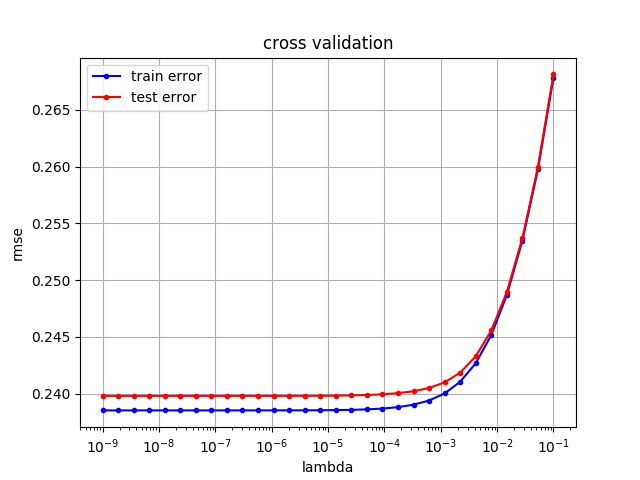
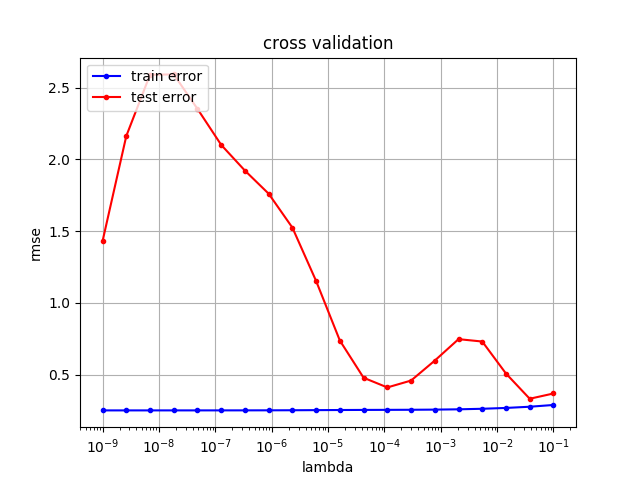
83% working

diff --git a/project1/utils/preprocessing.py b/project1/utils/preprocessing.py
@@ -59,103 +59,114 @@ def nan_to_mean(x, testx):
     return x, testx
 
 def adjust_features(x, testx):
-    square_mass = np.sqrt(x[:, DER_mass_MMC])
-    # square_mass_t = np.sqrt(x[:, DER_mass_transverse_met_lep])
-    px_tau = x[:, pri_tau_pt] * np.sin(x[:, pri_tau_phi])
-    py_tau = x[:, pri_tau_pt] * np.cos(x[:, pri_tau_phi])
-    pz_tau = x[:, pri_tau_pt] * np.sinh(x[:, pri_tau_eta])
-    mod_tau = x[:, pri_tau_pt] * np.cosh(x[:, pri_tau_eta])
-    # TRAIN - LEPT
-    px_lep = x[:, pri_lep_pt] * np.sin(x[:, pri_lep_phi])
-    py_lep = x[:, pri_lep_pt] * np.cos(x[:, pri_lep_phi])
-    pz_lep = x[:, pri_lep_pt] * np.sinh(x[:, pri_lep_eta])
-    mod_lep = x[:, pri_lep_pt] * np.cosh(x[:, pri_lep_eta])
-    # TEST - TAU
-    tsquare_mass = np.sqrt(testx[:, DER_mass_MMC])
-    # tsquare_mass_t = np.sqrt(testx[:, DER_mass_transverse_met_lep])
-    px_taut = testx[:, pri_tau_pt] * np.sin(testx[:, pri_tau_phi])
-    py_taut = testx[:, pri_tau_pt] * np.cos(testx[:, pri_tau_phi])
-    pz_taut = testx[:, pri_tau_pt] * np.sinh(testx[:, pri_tau_eta])
-    mod_taut = testx[:, pri_tau_pt] * np.cosh(testx[:, pri_tau_eta])
-    # TEST - LEPT
-    px_lept = testx[:, pri_lep_pt] * np.sin(testx[:, pri_lep_phi])
-    py_lept = testx[:, pri_lep_pt] * np.cos(testx[:, pri_lep_phi])
-    pz_lept = testx[:, pri_lep_pt] * np.sinh(testx[:, pri_lep_eta])
-    mod_lept = testx[:, pri_lep_pt] * np.cosh(testx[:, pri_lep_eta])
-
-    inv_log_cols = [0, 2, 5, 7, 9, 10, 13, 16, 19, 21, 23, 26]
     # Create inverse log values of features which are positive in value.
-    x_train_inv_log_cols = np.log(1 / (1 + x[:, inv_log_cols]))
-    x = np.hstack((x, x_train_inv_log_cols))
-    x_test_inv_log_cols = np.log(1 / (1 + testx[:, inv_log_cols]))
-    testx = np.hstack((testx, x_test_inv_log_cols))
+    for jet in range(len(x)):
+        if jet in (0,1,2,3):
+            if jet == 0:
+                x_delete_index = [3, 4, 5, 11, 22, 23, 24, 25, 26, 27, 28]
+                inv_log_cols = [1, 6, 8, 9, 12, 15, 18, 20]
+            if jet == 1:
+                x_delete_index = [4, 5, 6, 12, 23, 24, 25, 26, 27, 28, 29]
+                inv_log_cols = [0, 2, 7, 9, 10, 13, 16, 19, 21]
+            if jet == 2:
+                x_delete_index = [3, 4, 5, 11, 25, 26, 27]
+                inv_log_cols = [1, 6, 8, 9, 12, 15, 18, 20]
+            if jet == 3:
+                x_delete_index = [4, 5, 6, 12, 26, 27, 28]
+                inv_log_cols = [0, 2, 7, 9, 10, 13, 16, 19, 21]
+        elif jet in (4,5,6,7):
+            if jet in (4,6):
+                inv_log_cols = [1, 4, 6, 8, 9, 12, 15, 18, 20, 22, 25]
+            elif jet in (5,7):
+                inv_log_cols = [0, 2, 5, 7, 9, 10, 13, 16, 19, 21, 23, 26]
+            x_delete_index = []
 
-    train_features = [px_tau,py_tau,pz_tau,
-                      px_lep,py_lep,pz_lep, square_mass]
-    test_features = [px_taut, py_taut,pz_taut,
-                      px_lept,py_lept,pz_lept, tsquare_mass]
-    for feat in train_features:
-        x = np.column_stack((x, feat))
-    for feat in test_features:
-        testx = np.column_stack((testx, feat))
+        x_train_inv_log_cols = np.log(1 / (1 + x[jet][:, inv_log_cols]))
+        x[jet] = np.hstack((x[jet], x_train_inv_log_cols))
+        x_test_inv_log_cols = np.log(1 / (1 + testx[jet][:, inv_log_cols]))
+        testx[jet] = np.hstack((testx[jet], x_test_inv_log_cols))
+
+        x[jet] = remove_features(x[jet], x_delete_index)
+        testx[jet] = remove_features(testx[jet], x_delete_index)
+
+
+        # Preprocessing dataset
+        # x[jet], testx[jet] = nan_to_mean(x[jet], testx[jet])
+        # offset = 0 if jet % 2 == 0 else 1
+        # # TRAIN - TAU
+        # px_tau = x[jet][:, pri_tau_pt-offset] * np.sin(x[jet][:, pri_tau_phi-offset])
+        # py_tau = x[jet][:, pri_tau_pt-offset] * np.cos(x[jet][:, pri_tau_phi-offset])
+        # pz_tau = x[jet][:, pri_tau_pt-offset] * np.sinh(x[jet][:, pri_tau_eta-offset])
+        # # TRAIN - LEPT
+        # px_lep = x[jet][:, pri_lep_pt-offset] * np.sin(x[jet][:, pri_lep_phi-offset])
+        # py_lep = x[jet][:, pri_lep_pt-offset] * np.cos(x[jet][:, pri_lep_phi-offset])
+        # pz_lep = x[jet][:, pri_lep_pt-offset] * np.sinh(x[jet][:, pri_lep_eta-offset])
+        # # TEST - TAU
+        # px_taut = testx[jet][:, pri_tau_pt-offset] * np.sin(testx[jet][:, pri_tau_phi-offset])
+        # py_taut = testx[jet][:, pri_tau_pt-offset] * np.cos(testx[jet][:, pri_tau_phi-offset])
+        # pz_taut = testx[jet][:, pri_tau_pt-offset] * np.sinh(testx[jet][:, pri_tau_eta-offset])
+        # # TEST - LEPT
+        # px_lept = testx[jet][:, pri_lep_pt-offset] * np.sin(testx[jet][:, pri_lep_phi-offset])
+        # py_lept = testx[jet][:, pri_lep_pt-offset] * np.cos(testx[jet][:, pri_lep_phi-offset])
+        # pz_lept = testx[jet][:, pri_lep_pt-offset] * np.sinh(testx[jet][:, pri_lep_eta-offset])
+        #
+        # train_features = [px_tau,py_tau,pz_tau,
+        #                   px_lep,py_lep,pz_lep]
+        # test_features = [px_taut, py_taut,pz_taut,
+        #                   px_lept,py_lept,pz_lept]
+        # for feat in train_features:
+        #     x[jet] = np.column_stack((x[jet], feat))
+        # for feat in test_features:
+        #     testx[jet] = np.column_stack((testx[jet], feat))
+
     return x, testx
 
 def split_jets(train_x, train_y, test_x, test_y, idstest):
     jet_number = 22
+    jets = 4
+    x_jets_train = []
+    x_jets_test = []
+    y_jets_train = []
+    ids = []
+    for jet in range(jets):
+        x_jets_train.append(train_x[train_x[:, jet_number] == jet])
+        x_jets_test.append(test_x[test_x[:, jet_number] == jet])
+        ids_train = np.where([train_x[:, jet_number] == jet])[1]
+        y_jets_train.append(train_y[ids_train])
+        ids_test = np.where([test_x[:, jet_number] == jet])[1]
+        ids.append(idstest[ids_test])
 
-    x_jets_0_train = train_x[train_x[:, jet_number] == 0]
-    x_jets_1_train = train_x[train_x[:, jet_number] == 1]
-    x_jets_2_train = train_x[train_x[:, jet_number] == 2]
-    x_jets_3_train = train_x[train_x[:, jet_number] == 3]
 
-    x_jets_0_test = test_x[test_x[:, jet_number] == 0]
-    x_jets_1_test = test_x[test_x[:, jet_number] == 1]
-    x_jets_2_test = test_x[test_x[:, jet_number] == 2]
-    x_jets_3_test = test_x[test_x[:, jet_number] == 3]
+    mass_x_jets_train = []
+    mass_y_jets_train = []
+    mass_x_jets_test = []
+    mass_ids_jets_test = []
 
-    indices_x_0_train = np.where([train_x[:, jet_number] == 0])[1]
-    indices_x_1_train = np.where([train_x[:, jet_number] == 1])[1]
-    indices_x_2_train = np.where([train_x[:, jet_number] == 2])[1]
-    indices_x_3_train = np.where([train_x[:, jet_number] == 3])[1]
+    # FOR EACH JET
+    # FIRST WITHOUT MASS
+    # SECOND WITH MASS
 
-    y_jets_0_train = train_y[indices_x_0_train]
-    y_jets_1_train = train_y[indices_x_1_train]
-    y_jets_2_train = train_y[indices_x_2_train]
-    y_jets_3_train = train_y[indices_x_3_train]
+    for jet in range(jets):
+        indices_jet_nan_train = np.where([x_jets_train[jet][:, 0] == (-999)])[1]
+        indices_jet_Nnan_train = np.where([x_jets_train[jet][:, 0] != (-999)])[1]
+        indices_jet_nan_test = np.where([x_jets_test[jet][:, 0] == (-999)])[1]
+        indices_jet_Nnan_test = np.where([x_jets_test[jet][:, 0] != (-999)])[1]
 
-    indices_x_0_test = np.where([test_x[:, jet_number] == 0])[1]
-    indices_x_1_test = np.where([test_x[:, jet_number] == 1])[1]
-    indices_x_2_test = np.where([test_x[:, jet_number] == 2])[1]
-    indices_x_3_test = np.where([test_x[:, jet_number] == 3])[1]
+        mass_ids_jets_test.append(ids[jet][indices_jet_nan_test])
+        mass_ids_jets_test.append(ids[jet][indices_jet_Nnan_test])
 
-    y_jets_0_test = test_y[indices_x_0_test]
-    y_jets_1_test = test_y[indices_x_1_test]
-    y_jets_2_test = test_y[indices_x_2_test]
-    y_jets_3_test = test_y[indices_x_3_test]
+        x_jets_nan_train = x_jets_train[jet][indices_jet_nan_train]
+        x_jets_nan_train = np.delete(x_jets_nan_train, 0, 1)
+        mass_x_jets_train.append(x_jets_nan_train)
+        mass_x_jets_train.append(x_jets_train[jet][indices_jet_Nnan_train])
 
-    idstest_0 = idstest[indices_x_0_test]
-    idstest_1 = idstest[indices_x_1_test]
-    idstest_2 = idstest[indices_x_2_test]
-    idstest_3 = idstest[indices_x_3_test]
+        x_jets_nan_test = x_jets_test[jet][indices_jet_nan_test]
+        x_jets_nan_test = np.delete(x_jets_nan_test, 0, 1)
+        mass_x_jets_test.append(x_jets_nan_test)
+        mass_x_jets_test.append(x_jets_test[jet][indices_jet_Nnan_test])
 
-    x_delete_index_0 = []
-    x_delete_index_1 = []
-    x_delete_index_2 = []
-    x_delete_index_3 = []
+        mass_y_jets_train.append(y_jets_train[jet][indices_jet_nan_train])
+        mass_y_jets_train.append(y_jets_train[jet][indices_jet_Nnan_train])
 
-    x_jets_0_train = remove_features(x_jets_0_train, x_delete_index_0)
-    x_jets_0_test = remove_features(x_jets_0_test, x_delete_index_0)
-    x_jets_1_train = remove_features(x_jets_1_train, x_delete_index_1)
-    x_jets_1_test = remove_features(x_jets_1_test, x_delete_index_1)
-    x_jets_2_train = remove_features(x_jets_2_train, x_delete_index_2)
-    x_jets_2_test = remove_features(x_jets_2_test, x_delete_index_2)
-    x_jets_3_train = remove_features(x_jets_3_train, x_delete_index_3)
-    x_jets_3_test = remove_features(x_jets_3_test, x_delete_index_3)
-
-    ids = [idstest_0, idstest_1, idstest_2, idstest_3]
-    x_jets_train = [x_jets_0_train, x_jets_1_train, x_jets_2_train, x_jets_3_train]
-    x_jets_test = [x_jets_0_test, x_jets_1_test, x_jets_2_test, x_jets_3_test]
-    y_jets_train = [y_jets_0_train, y_jets_1_train, y_jets_2_train, y_jets_3_train]
-    y_jets_test = [y_jets_0_test, y_jets_1_test, y_jets_2_test, y_jets_3_test]
-
-    return x_jets_train, x_jets_test, y_jets_train, y_jets_test, ids
+    return mass_x_jets_train, mass_x_jets_test, mass_y_jets_train, mass_ids_jets_test
+    # return x_jets_train, x_jets_test, y_jets_train, ids

diff --git a/project1/run_jet3.py b/project1/run_jet3.py
@@ -19,16 +19,13 @@ train_y, train_x, train_ids = load_csv_data(train_path)
 test_y, test_x, idstest_ids = load_csv_data(test_path)
 print("Datasets loaded in: " + str(time.time() - start_time))
 
-# Preprocessing dataset
-train_x, test_x = nan_to_mean(train_x, test_x)
-train_x, test_x = adjust_features(train_x, test_x)
-
 # Splitting dataset into 8 datasets to use 8 different classifiers
 x_jets_train, \
 x_jets_test, \
 y_jets_train, \
-y_jets_test, \
 ids = split_jets(train_x, train_y, test_x, test_y, idstest_ids)
+
+train_x, test_x = adjust_features(x_jets_train, x_jets_test)
 
 px_train = []
 px_test = []
@@ -48,6 +45,12 @@ for i in range(len(x_jets_train)):
     # Standardizing dataset
     x_jets_train[i], x_jets_test[i] = standardize(x_jets_train[i], x_jets_test[i])
 
+    import pandas as pd
+    import matplotlib.pyplot as plt
+    df = pd.DataFrame(x_jets_train[i])
+    df.hist()
+    plt.show()
+
     # Building polynomial features
     px_train.append(build_poly(degree=degree,x=x_jets_train[i]))
     px_test.append(build_poly(degree=degree,x=x_jets_test[i]))
@@ -60,21 +63,17 @@ for i in range(len(x_jets_train)):
 
     # Predicting labels
     preds.append(predict_labels(w, px_test[i]))
+
+
 # ------------------------- LOCAL TEST -------------------------------
 # seed = 33
 # k_fold = 8
-# jet_to_train = 0
-# degree = 1
+# jet_to_train = 5
+# degree = 5
 #
 # x_jets_train[jet_to_train], x_jets_test[jet_to_train] = standardize(x_jets_train[jet_to_train], x_jets_test[jet_to_train])
 #
-# import pandas as pd
-# import matplotlib.pyplot as plt
-# df = pd.DataFrame(x_jets_train[jet_to_train])
-# df.hist()
-# plt.show()
-#
-# lambdas = np.logspace(-9, -1, 30)
+# lambdas = np.logspace(-6, -3, 100)
 # k_indices = build_k_indices(y_jets_train[jet_to_train], k_fold, seed)
 # rmse_tr = []
 # rmse_te = []

diff --git a/project1/utils/train_utils.py b/project1/utils/train_utils.py
@@ -42,16 +42,24 @@ def batch_iter(y, tx, batch_size, num_batches=1, shuffle=True):
             yield shuffled_y[start_index:end_index], shuffled_tx[start_index:end_index]
 
 def get_lambda(i):
-    if i == 0:
-        return 3.03919538231e-07
-    elif i == 1:
-        return 2.39502661999e-08
-    elif i == 2:
-        return 1.61026202756e-07
-    elif i == 3:
-        return 1.26896100317e-08
+    lambdas = [
+        5.73615251045e-07,
+        1e-09,
+        0.0280721620394,
+        9.23670857187e-05,
+        0.0148735210729,
+        1.37382379588e-05,
+        0.0280721620394,
+        0.000329034456231
+    ]
+    return lambdas[i]
 
 
 def get_degree(i):
-    deg = [1,4,4,4]
-    return deg[i]
+    deg_mass = [
+        1,1,
+        3,5,
+        4,4,
+        3,5
+    ]
+    return deg_mass[i]
